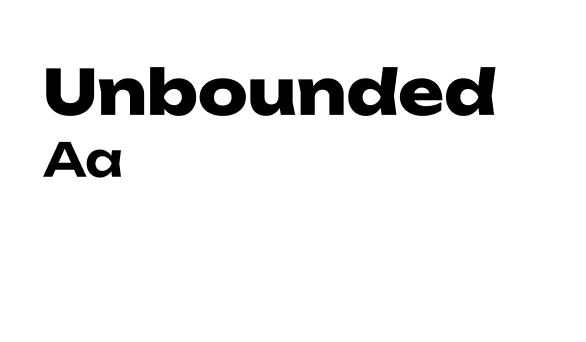
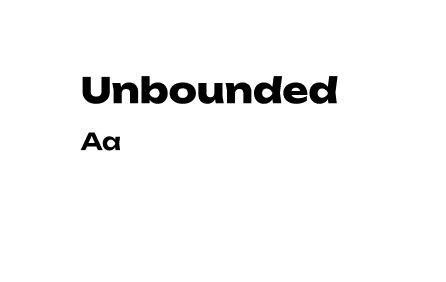
aktualizacja

Changed region(s): [[0.0583, 0.1702, 0.8453, 0.3688], [0.0583, 0.3972, 0.2915, 0.539]]

diff --git a/index.html b/index.html
@@ -416,19 +416,17 @@ footer {
     <span class="section-count">02 prace</span>
   </div>
 
-  <a href="soma.html" class="project-featured reveal">
+  <a href="ZZ.html" class="project-featured reveal">
 <div class="project-card-img">
-  <img src="soma_logo.png" alt="SOMA">
+  <img src="logobrown.png" alt="ZZ">
 </div>
     <div class="project-featured-body">
       <div class="project-num">01</div>
       <div>
-        <h3 class="project-featured-name">SOMA — strona internetowa z suplementami</h3>
-        <p class="project-featured-desc">Projekt przedstawia nowoczesny landing page marki suplementów wellness skierowanej głównie do kobiet dbających o zdrowie i świadomą suplementację. Głównym celem projektu było stworzenie przejrzystego, budzącego zaufanie doświadczenia, które ułatwia dobór suplementów dopasowanych do indywidualnych potrzeb organizmu. Warstwa wizualna łączy styl premium wellness z  nowoczesnym interfejsem, tworząc ciekawy i przyjazny odbiór marki.</p>
-        <div class="project-tags">
-          <span class="tag coral">UX/UI</span>
-          <span class="tag olive">Desktop</span>
-          <span class="tag">Figma</span>
+        <h3 class="project-featured-name">Złoty zakwas - branding piekarni rzemieślniczej</h3>
+        <p class="project-featured-desc">Branding piekarni rzemieślniczej “Złoty Zakwas”. Na potrzebę projektu zaprojektowane zostało logo, prototypy etykiet, plakat, wizytówka oraz post na social media. Projekt został wykonany w spójnej estetyce.</p>
+        <div class="project-tags" style="margin-top: 1rem;">
+          <span class="tag olive">Branding</span><span class="tag">Figma</span><span class="tag">Adobe Photosop</span>
         </div>
       </div>
       <span class="project-arrow">↗</span>
@@ -440,7 +438,7 @@ footer {
   <img src="Projekt bez nazwy.png" alt="Aplikacja GoodGut">
 </div>
     <div class="project-featured-body">
-      <div class="project-num">01</div>
+      <div class="project-num">02</div>
       <div>
         <h3 class="project-featured-name">GOODGUT - aplikacja</h3>
         <p class="project-featured-desc">Celem aplikacji GoodGut jest promowanie świadomej troski o zdrowie fizyczne i psychiczne. Zawarte funkcjonalności pozwalają na ułatwienie rozpoznawania sygnałów, które wysyła organizm (np. zmęczenie, bezsenność, problemy trawienne). Aplikacja promuje zintegrowane podejście do zdrowia – łączenie diety, aktywności
@@ -457,16 +455,18 @@ footer {
   </a>
 
   <div class="projects-row reveal">
-    <a href="ZZ.html" class="project-card">
+    <a href="soma.html" class="project-card">
 <div class="project-card-img">
-  <img src="logobrown.png" alt="Złoty Zakwas">
+  <img src="soma_logo.png" alt="Soma">
 </div>
       <div class="project-card-body">
-        <div class="project-num">02</div>
-        <h3 class="project-card-name">Złoty zakwas - branding piekarni rzemieślniczej</h3>
-        <p class="project-card-desc">Branding piekarni rzemieślniczej “Złoty Zakwas”. Na potrzebę projektu zaprojektowane zostało logo, prototypy etykiet, plakat, wizytówka oraz post na social media. Projekt został wykonany w spójnej estetyce.</p>
-        <div class="project-tags" style="margin-top: 1rem;">
-          <span class="tag olive">Branding</span><span class="tag">Figma</span><span class="tag">Adobe Photosop</span>
+        <div class="project-num">03</div>
+        <h3 class="project-card-name">SOMA — strona internetowa z suplementami</h3>
+        <p class="project-card-desc">Projekt przedstawia nowoczesny landing page marki suplementów wellness skierowanej głównie do kobiet dbających o zdrowie i świadomą suplementację. Głównym celem projektu było stworzenie przejrzystego, budzącego zaufanie doświadczenia, które ułatwia dobór suplementów dopasowanych do indywidualnych potrzeb organizmu. Warstwa wizualna łączy styl premium wellness z  nowoczesnym interfejsem, tworząc ciekawy i przyjazny odbiór marki.</p>
+        <div class="project-tags">
+          <span class="tag coral">UX/UI</span>
+          <span class="tag olive">Desktop</span>
+          <span class="tag">Figma</span>
         </div>
       </div>
     </a>
@@ -476,7 +476,7 @@ footer {
   <img src="MBlogo.png" alt="MyBus">
 </div>
       <div class="project-card-body">
-        <div class="project-num">03</div>
+        <div class="project-num">04</div>
         <h3 class="project-card-name">MyBus - redesign aplikacji</h3>
         <p class="project-card-desc">Celem projektu było odświeżenie i uproszczenie interfejsu aplikacji MyBus, służącej do sprawdzania komunikacji miejskiej w czasie rzeczywistym. Redesign miał zwiększyć czytelność, intuicyjność oraz komfort korzystania z aplikacji w ruchu.</p>
         <div class="project-tags" style="margin-top: 1rem;">

diff --git a/GG.html b/GG.html
@@ -498,10 +498,10 @@ footer { border-top: 1px solid var(--border); padding: 2rem 3rem; display: flex;
 </section>
 
 <!-- NEXT PROJECT -->
-<a href="ZZ.html" class="cs-next">
+<a href="soma.html" class="cs-next">
   <div>
     <p class="cs-next-lbl">Następny projekt</p>
-    <h2 class="cs-next-title">Złoty zakwas — branding piekarni rzemieślniczej</h2>
+    <h2 class="cs-next-title">Soma - strona internetowa marki suplementów</h2>
   </div>
   <span class="cs-next-arr">↗</span>
 </a>

diff --git a/soma.html b/soma.html
@@ -355,10 +355,10 @@ footer { border-top: 1px solid var(--border); padding: 2rem 3rem; display: flex;
 </section>
 
 <!-- NEXT PROJECT -->
-<a href="GG.html" class="cs-next">
+<a href="MyBus.html" class="cs-next">
   <div>
     <p class="cs-next-lbl">Następny projekt</p>
-    <h2 class="cs-next-title">GOODGUT — aplikacja zdrowotna</h2>
+    <h2 class="cs-next-title">MyBus — redesign aplikacji mobilnej</h2>
   </div>
   <span class="cs-next-arr">↗</span>
 </a>

diff --git a/ZZ.html b/ZZ.html
@@ -420,10 +420,10 @@ footer { border-top: 1px solid var(--border); padding: 2rem 3rem; display: flex;
 </section>
 
 <!-- NEXT PROJECT -->
-<a href="MyBus.html" class="cs-next">
+<a href="GG.html" class="cs-next">
   <div>
     <p class="cs-next-lbl">Następny projekt</p>
-    <h2 class="cs-next-title">MyBus — redesign aplikacji mobilnej</h2>
+    <h2 class="cs-next-title">GOODGUT - aplikacja zdrowotna </h2>
   </div>
   <span class="cs-next-arr">↗</span>
 </a>
